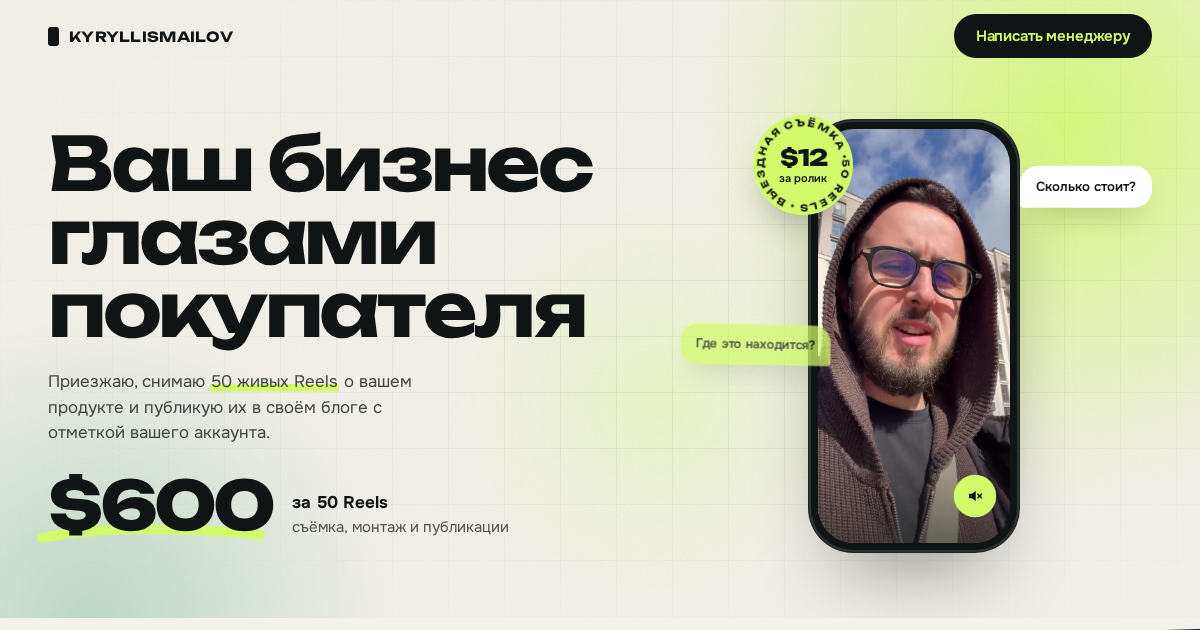
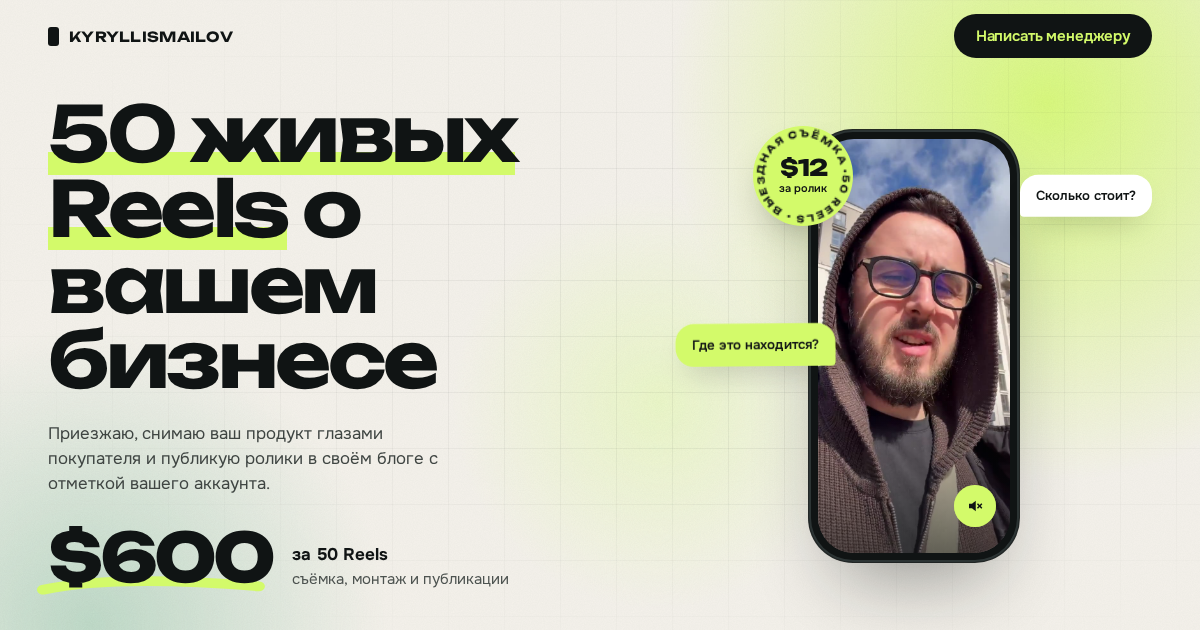
Заголовки, фон на телефоне, блок 50 тем

Changed region(s): [[0.0, 0.1508, 0.4933, 1.0], [0.555, 0.181, 0.9558, 0.9048], [0.9558, 0.9952, 1.0, 1.0]]

diff --git a/src/content/site.ts b/src/content/site.ts
@@ -57,9 +57,10 @@ export const site = {
 
   // 01 — Первый экран
   hero: {
-    title: 'Ваш бизнес глазами покупателя',
+    // Первый заголовок: сразу понятно, что предлагается
+    title: '[[50 живых Reels]] о вашем бизнесе',
     // [[...]] — фраза подсвечивается лаймовым маркером при появлении
-    subtitle: 'Приезжаю, снимаю [[50 живых Reels]] о вашем продукте и публикую их в своём блоге с отметкой вашего аккаунта.',
+    subtitle: 'Приезжаю, снимаю ваш продукт глазами покупателя и публикую ролики в своём блоге с отметкой вашего аккаунта.',
     secondaryCta: 'Смотреть примеры',
     sticker: '50 REELS • ВЫЕЗДНАЯ СЪЁМКА • ',
     bubbles: [
@@ -85,7 +86,7 @@ export const site = {
 
   // 02 — Кто снимает: разговорное видео и фото Кирилла
   about: {
-    title: 'Привет, я Кирилл',
+    title: 'Привет, я [[Кирилл]]',
     text: 'Веду lifestyle-блог и снимаю [[живые разговорные ролики]]. Пробую продукт, рассматриваю детали и задаю вопросы, которые покупатели задают перед покупкой.',
     points: ['Живая речь, без постановки', 'Реальная картинка, без глубокой ретуши', 'Один ролик — одна понятная мысль'],
     // Второе видео Кирилла — рядом с текстом о нём
@@ -100,7 +101,7 @@ export const site = {
 
   // 02b — Примеры роликов, снятых для заказчика
   examples: {
-    title: 'Так выглядят ролики',
+    title: 'Так выглядят [[ролики]]',
     text: 'Серия Reels для заказчика — компании с подъёмниками. Листайте и нажмите, чтобы включить звук.',
     // Подписи можно поменять на свои
     items: [
@@ -116,7 +117,7 @@ export const site = {
 
   // 03 — Статистика из Instagram. Цифры растут — обновляйте их вместе со скриншотами.
   stats: {
-    title: 'Блог, который смотрят',
+    title: 'Блог, который [[смотрят]]',
     period: 'Instagram, последние 30 дней: 25 августа — 23 сентября',
     items: [
       { value: 922666, decimals: 0, unit: '', label: 'просмотров' },
@@ -173,7 +174,7 @@ export const site = {
 
   // 04 — Что входит (слайды 2–3)
   package: {
-    title: 'Что вы получаете',
+    title: 'Что вы [[получаете]]',
     items: [
       { big: '50', title: 'отдельных роликов', text: 'Каждый раскрывает одну мысль о вашем продукте.' },
       { big: 'У вас', title: 'съёмка на локации', text: 'Приезжаю к вам. Лёгкий монтаж: обрезка, текст, музыка.' },
@@ -184,7 +185,7 @@ export const site = {
 
   // 05 — Что будем снимать (слайды 7–8)
   topics: {
-    title: '50 тем вместо повторения',
+    title: '[[50 тем]] вместо повторения',
     text: 'Темы адаптирую под ваш бизнес. Утверждения о товаре подтверждаете вы.',
     groups: [
       { name: 'Знакомство', from: 1, to: 10 },
@@ -206,7 +207,7 @@ export const site = {
 
   // 06 — Как работаем (слайд 11)
   process: {
-    title: 'Как это проходит',
+    title: 'Как это [[проходит]]',
     steps: [
       { title: 'Обсуждаем', text: 'Продукт, аудиторию и цель.' },
       { title: 'Фиксируем', text: 'Факты, ограничения и календарь.' },
@@ -217,7 +218,7 @@ export const site = {
 
   // 07 — Цена и калькулятор (слайды 9–10)
   pricing: {
-    title: 'Сколько это стоит',
+    title: 'Сколько это [[стоит]]',
     text: 'В пакет входят съёмка, лёгкий монтаж и 50 публикаций с отметкой.',
     note: 'Выездные расходы и дополнительные права согласуются отдельно.',
     // Калькулятор: $600 ÷ прибыль с одной продажи = сколько продаж вернут стоимость пакета
@@ -237,7 +238,7 @@ export const site = {
 
   // 09 — Частые вопросы (слайд 12 и FAQ из ТЗ)
   faq: {
-    title: 'Частые вопросы',
+    title: 'Частые [[вопросы]]',
     items: [
       {
         q: 'Что входит в $600?',
@@ -272,7 +273,7 @@ export const site = {
 
   // 10 — Связь
   contact: {
-    title: 'Обсудим ваш продукт',
+    title: 'Обсудим [[ваш продукт]]',
     lead: 'Напишите менеджеру слово «50»',
     text: 'И пришлите ссылку на бизнес, город и задачу. Обсудим формат и дату съёмки.',
     cta: 'Написать в Telegram',

diff --git a/src/scripts/topics.ts b/src/scripts/topics.ts
@@ -1,10 +1,9 @@
 import { gsap } from 'gsap';
 
 /**
- * Секция тем.
- * Компьютер: секция закрепляется, карточки едут горизонтально вслед за скроллом.
- * Телефон: обычная лента, которую листают пальцем, — ничего не закрепляется
- * и нижняя кнопка связи не перекрывает карточки.
+ * Секция тем: закрепляется, карточки едут горизонтально вслед за скроллом
+ * (и на компьютере, и на телефоне). Пока секция закреплена, нижняя кнопка связи
+ * на телефоне прячется, чтобы не закрывать карточки.
  * Полоски групп заполняются пропорционально (10/15/15/10).
  */
 export function initTopics(reduced: boolean) {
@@ -33,24 +32,6 @@ export function initTopics(reduced: boolean) {
     return;
   }
 
-  const mm = gsap.matchMedia();
-
-  // ── Телефон и планшет: лента с пальцевой прокруткой ──
-  mm.add('(max-width: 999px)', () => {
-    const onScroll = () => {
-      const max = viewport.scrollWidth - viewport.clientWidth;
-      const pos = max > 0 ? (viewport.scrollLeft / max) * (values.length - 1) : 0;
-      const i = Math.min(values.length - 1, Math.floor(pos));
-      const next = values[Math.min(values.length - 1, i + 1)];
-      setSegments(values[i] + (next - values[i]) * (pos - i));
-    };
-    viewport.addEventListener('scroll', onScroll, { passive: true });
-    onScroll();
-    return () => viewport.removeEventListener('scroll', onScroll);
-  });
-
-  // ── Компьютер: закреплённая секция ──
-  mm.add('(min-width: 1000px)', () => {
   // Карточки обрезаются только слева, справа уходят за край экрана
   viewport.style.clipPath = 'inset(-60px -100vw -60px 0)';
 
@@ -100,6 +81,7 @@ export function initTopics(reduced: boolean) {
         const skew = gsap.utils.clamp(-4, 4, self.getVelocity() / -450);
         skewTo.forEach((fn) => fn(skew));
       },
+      onToggle: (self) => document.documentElement.classList.toggle('topics-pinned', self.isActive),
       onLeave: () => skewTo.forEach((fn) => fn(0)),
       onLeaveBack: () => skewTo.forEach((fn) => fn(0)),
     },
@@ -107,9 +89,4 @@ export function initTopics(reduced: boolean) {
 
   setActive(0);
   setSegments(values[0]);
-
-  return () => {
-    viewport.style.clipPath = '';
-  };
-  });
 }

diff --git a/src/styles/global.css b/src/styles/global.css
@@ -203,7 +203,8 @@ p {
 .section-title {
   font-family: var(--font-display);
   font-weight: 700;
-  font-size: clamp(24px, 7.4vw, 44px);
+  /* На телефоне заголовки крупные и плотные — чтобы читались как акцент */
+  font-size: clamp(32px, 10.2vw, 56px);
   line-height: 1.02;
   letter-spacing: -0.045em;
   text-wrap: balance;
@@ -285,7 +286,7 @@ mark.hl {
 .dark mark.hl {
   background-image: linear-gradient(rgba(211, 250, 106, 0.4), rgba(211, 250, 106, 0.4));
 }
-mark.hl.is-on,
+.hl-on mark.hl,
 html:not(.js) mark.hl {
   background-size: 100% 0.45em;
 }
@@ -293,6 +294,29 @@ html:not(.js) mark.hl {
   mark.hl {
     background-size: 100% 0.45em;
   }
+}
+/* В крупных заголовках маркер тоньше и ниже — как росчерк под словом */
+.section-title mark.hl,
+.topics__title mark.hl,
+.hero__title mark.hl,
+.contact__title mark.hl {
+  background-position: left 92%;
+  background-size: 0% 0.3em;
+  padding: 0;
+}
+.hl-on.section-title mark.hl,
+.hl-on.topics__title mark.hl,
+.hl-on.hero__title mark.hl,
+.hl-on.contact__title mark.hl,
+html:not(.js) .section-title mark.hl {
+  background-size: 100% 0.3em;
+}
+/* На лаймовом фоне — светлый маркер, на тёмном — полупрозрачный лайм */
+.lime mark.hl {
+  background-image: linear-gradient(var(--paper), var(--paper));
+}
+.contact mark.hl {
+  background-image: linear-gradient(rgba(211, 250, 106, 0.45), rgba(211, 250, 106, 0.45));
 }
 
 /* ── Полоска прогресса прокрутки вверху экрана ── */
@@ -342,6 +366,18 @@ html:not(.js) mark.hl {
   color: transparent;
   -webkit-text-stroke: 1.5px rgba(16, 20, 20, 0.09);
   will-change: transform;
+}
+/* Телефон и планшет: слово целиком по ширине экрана, длинные фразы — в две строки */
+@media (max-width: 999px) {
+  .bgtext {
+    white-space: normal;
+    font-size: min(30vw, calc((100vw - 2 * var(--pad)) / (var(--len, 5) * 0.95)));
+    line-height: 0.86;
+    text-align: var(--talign, left);
+  }
+  .bgtext span {
+    max-width: 100%;
+  }
 }
 .dark .bgtext,
 .bgtext--light {

diff --git a/src/scripts/reveal.ts b/src/scripts/reveal.ts
@@ -6,12 +6,18 @@ import { SplitText } from 'gsap/SplitText';
  * прокрутили вниз — появились, вернулись выше блока — спрятались и появятся снова.
  */
 export function initReveals() {
-  // Лаймовый маркер прорисовывается под фразой каждый раз, когда она появляется на экране
+  // Лаймовый маркер прорисовывается под фразой каждый раз, когда её блок появляется на экране.
+  // Следим за самим заголовком/абзацем: анимация текста пересобирает слова внутри, а блок остаётся.
   const io = new IntersectionObserver(
-    (entries) => entries.forEach((e) => e.target.classList.toggle('is-on', e.isIntersecting)),
+    (entries) => entries.forEach((e) => e.target.classList.toggle('hl-on', e.isIntersecting)),
     { rootMargin: '0px 0px -15% 0px' },
   );
-  document.querySelectorAll('mark.hl').forEach((m) => io.observe(m));
+  const hosts = new Set<Element>();
+  document.querySelectorAll('mark.hl').forEach((m) => {
+    const host = m.closest('h1, h2, h3, p, li');
+    if (host) hosts.add(host);
+  });
+  hosts.forEach((h) => io.observe(h));
 
   // Заголовки секций поднимаются по строкам из-под «маски»
   document.querySelectorAll<HTMLElement>('.section-title').forEach((el) => {

diff --git a/src/scripts/deco.ts b/src/scripts/deco.ts
@@ -7,13 +7,16 @@ import { gsap } from 'gsap';
  * — в тёмных секциях световое пятно следует за курсором.
  */
 export function initDeco() {
+  // На телефоне слова двигаются едва заметно, чтобы не уезжать за край экрана
+  const small = window.matchMedia('(max-width: 999px)').matches;
   gsap.utils.toArray<HTMLElement>('[data-bgtext]').forEach((el) => {
     const dir = Number(el.dataset.dir ?? 1);
     gsap.fromTo(
       el,
-      { xPercent: dir * 8 },
+      { xPercent: small ? 0 : dir * 8, yPercent: small ? 12 : 0 },
       {
-        xPercent: -dir * 14,
+        xPercent: small ? 0 : -dir * 14,
+        yPercent: small ? -12 : 0,
         ease: 'none',
         scrollTrigger: { trigger: el.parentElement, start: 'top bottom', end: 'bottom top', scrub: 0.8 },
       },
